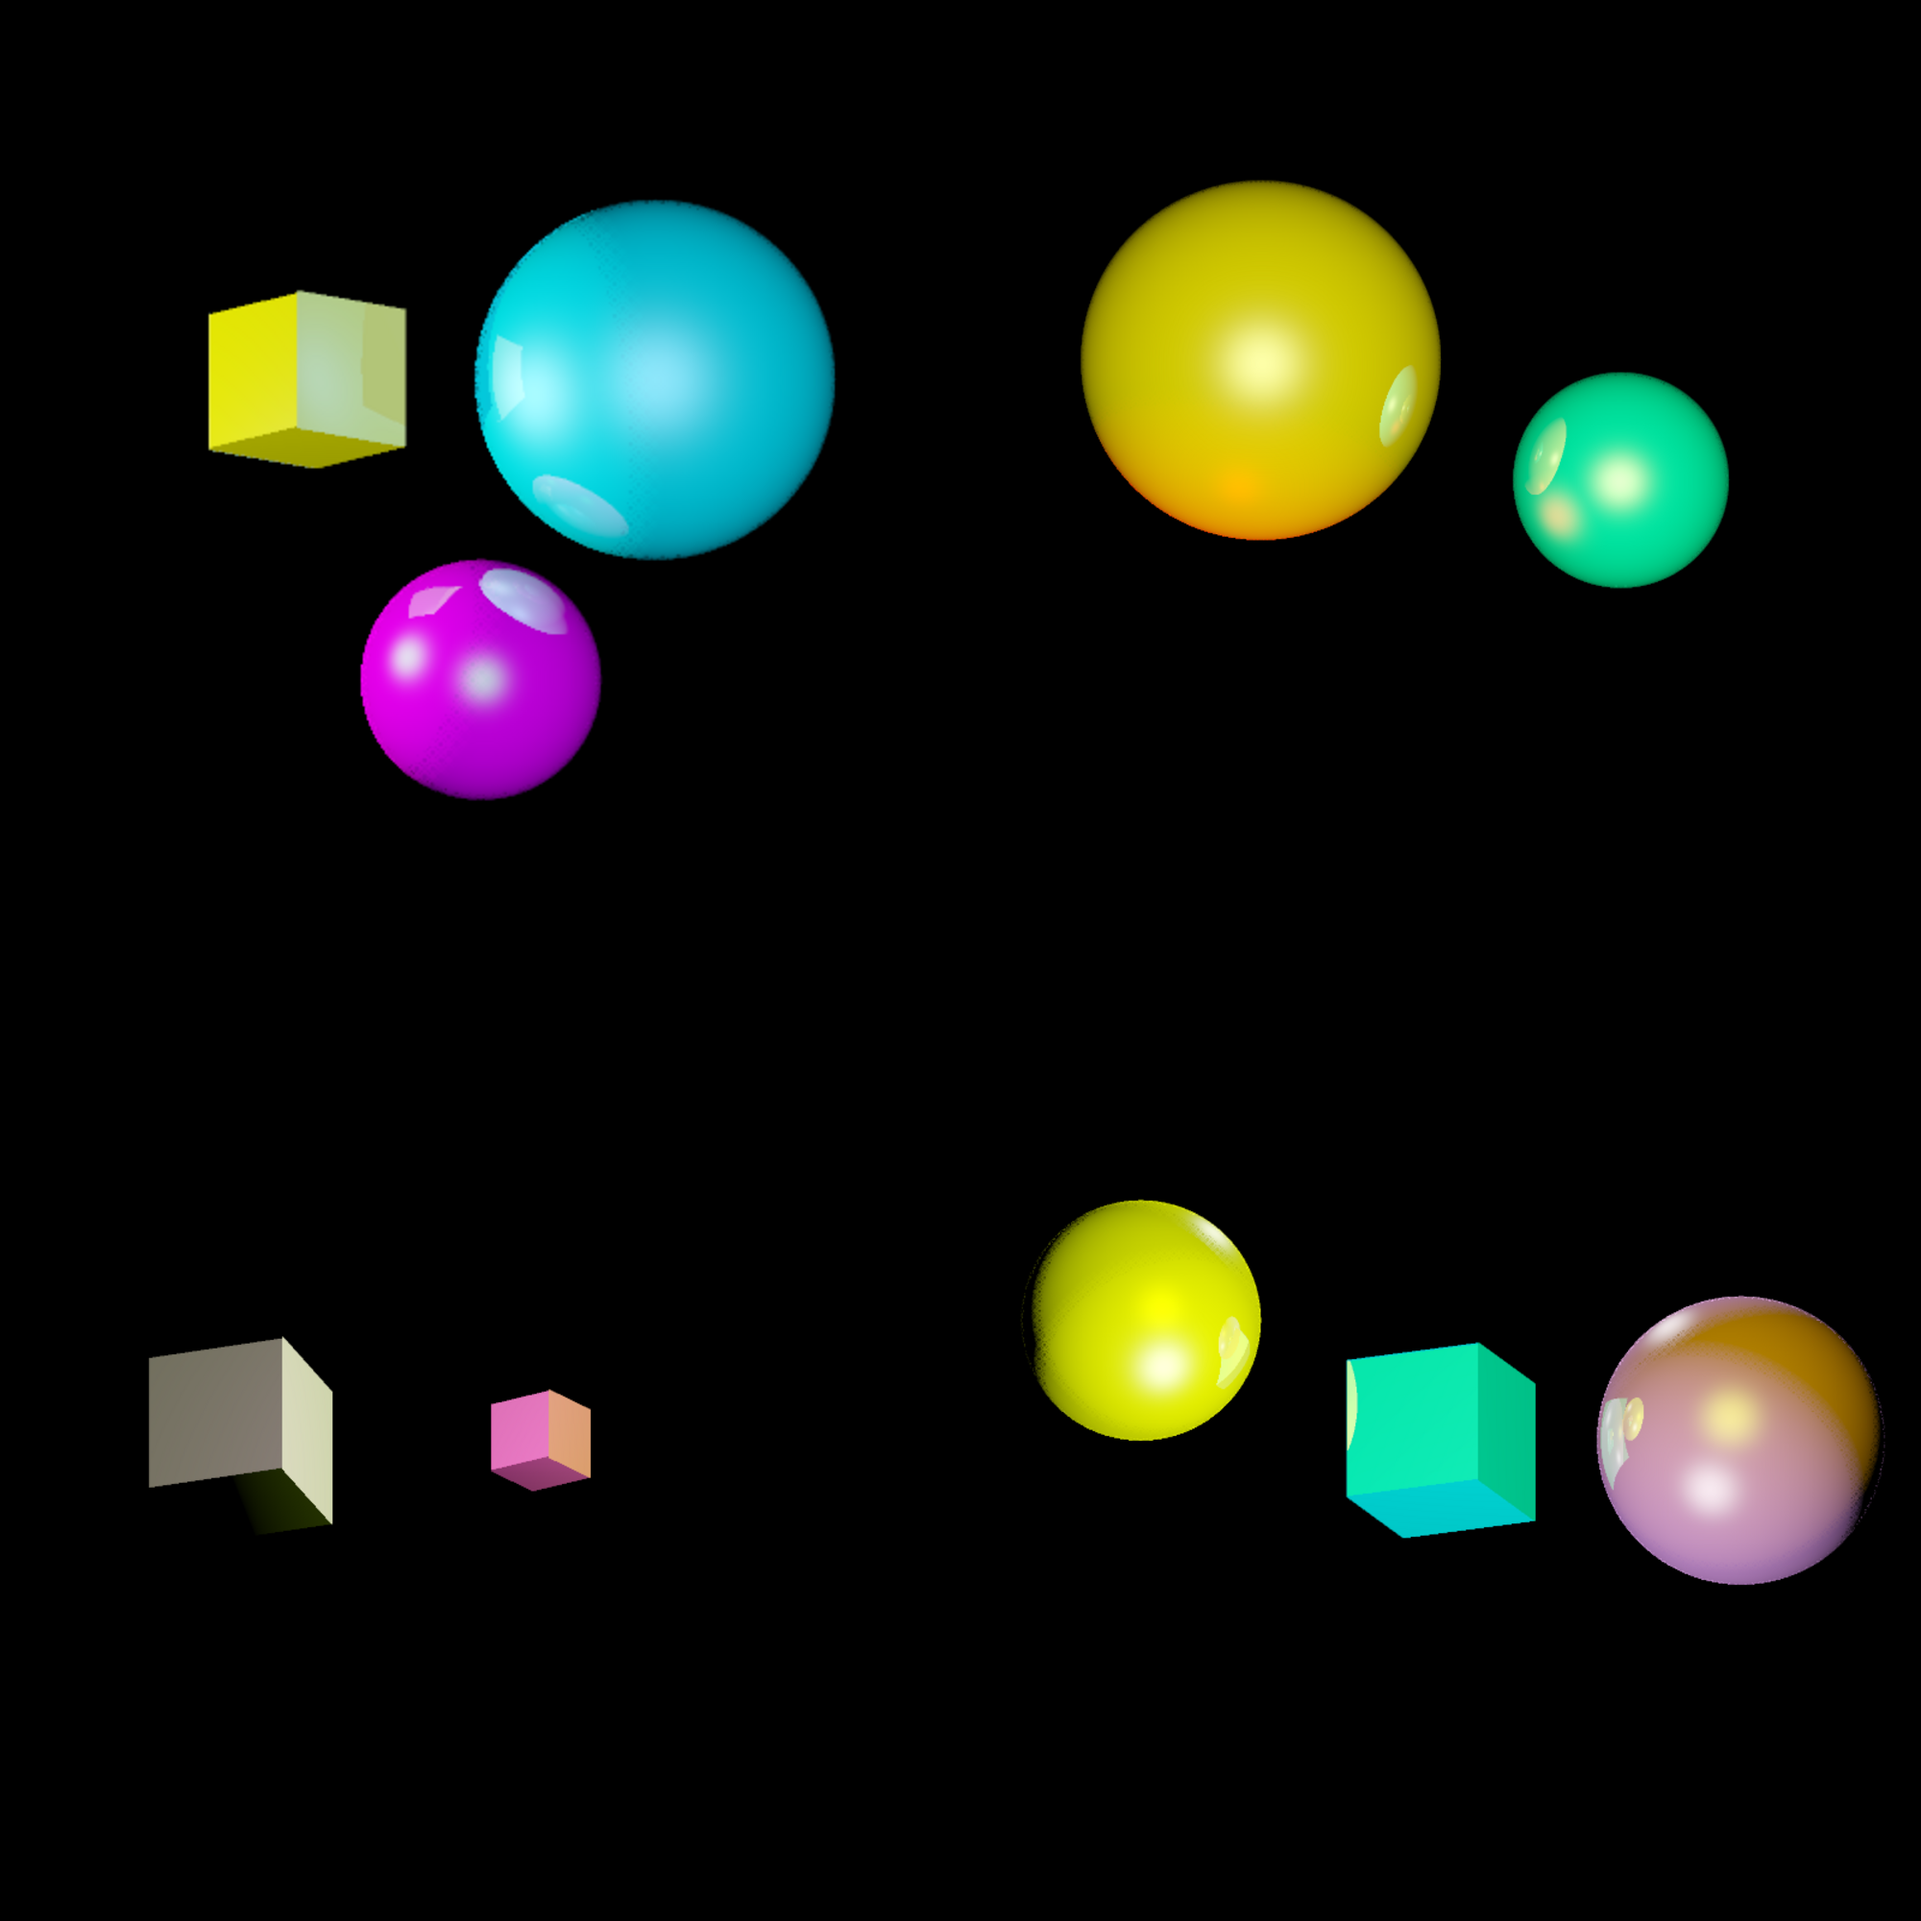
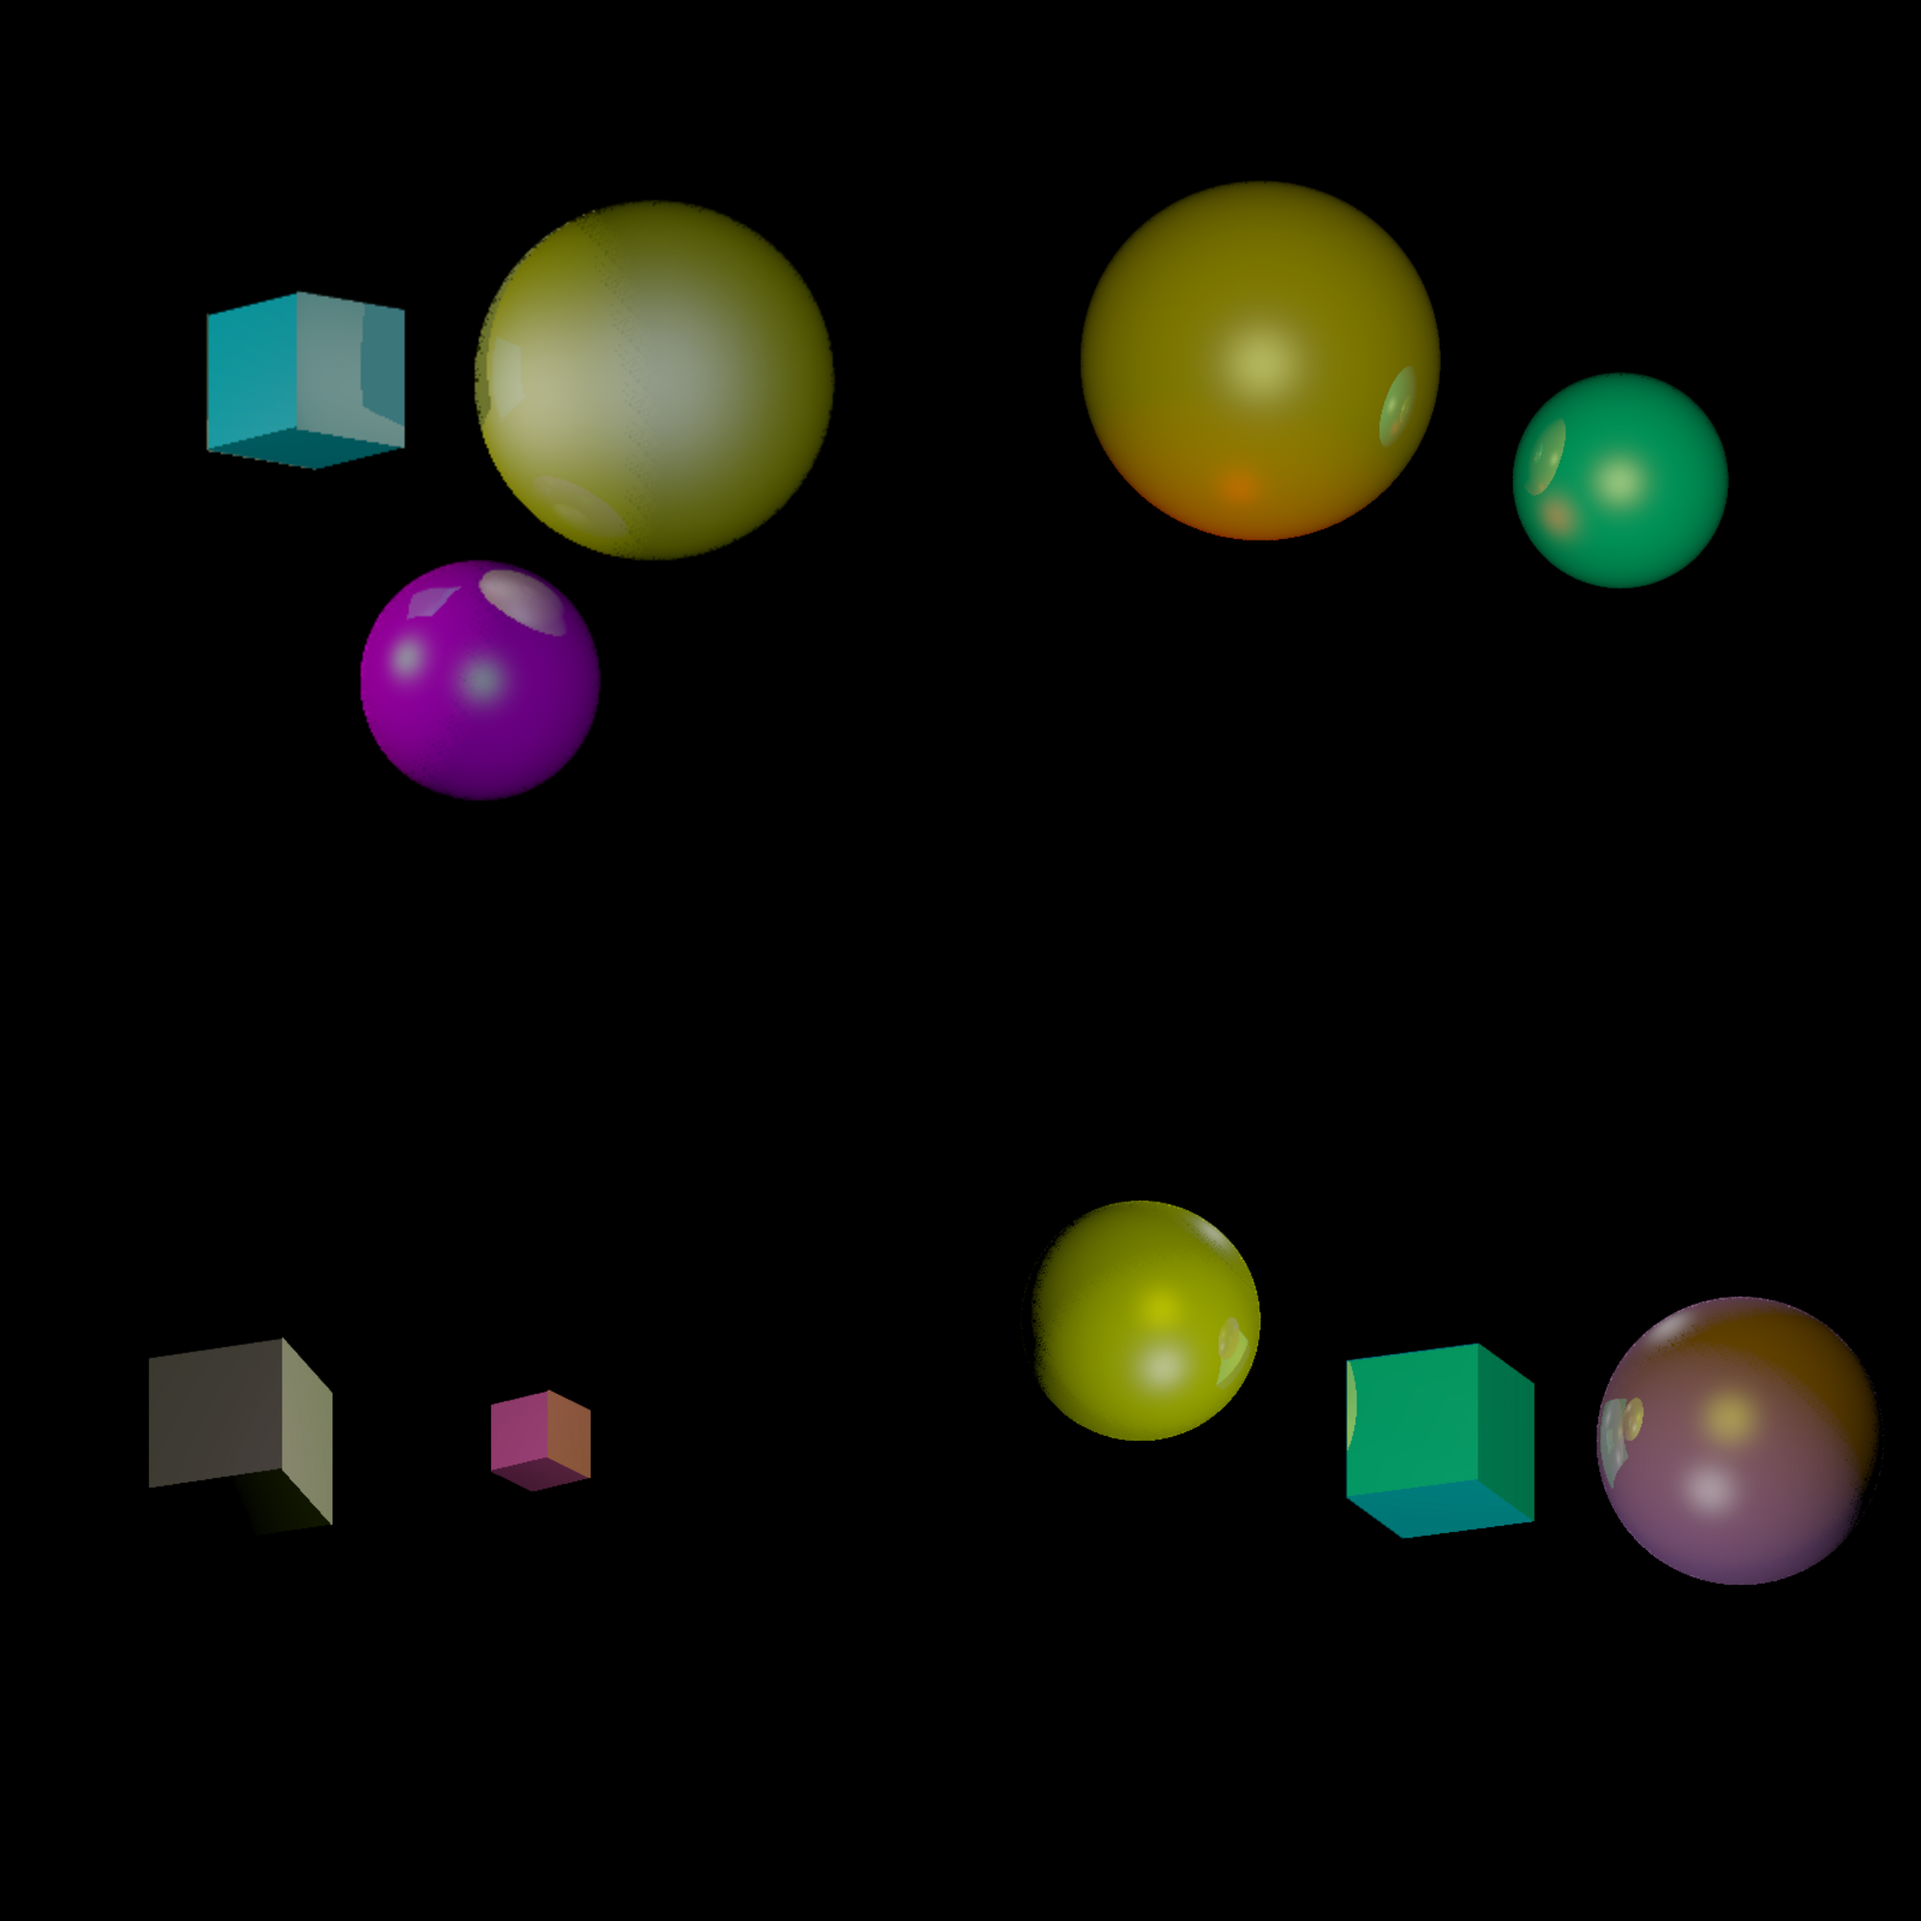
blinn phong corrigé

diff --git a/src/cpp/raytracer.cpp b/src/cpp/raytracer.cpp
@@ -50,13 +50,13 @@ bool draw(char *outputName, scene &myScene)
     for (int x = 0; x < myScene.sizex; ++x)
     {
       color output = {0.0f, 0.0f, 0.0f}; 
-      for (float fragx = float(x); fragx < x + 1.0f; fragx += 0.5f)
+      for (float fragx = float(x); fragx < x + 1.0f; fragx += 0.25f)
       {
-        for (float fragy = float(y); fragy < y + 1.0f; fragy += 0.5f)
+        for (float fragy = float(y); fragy < y + 1.0f; fragy += 0.25f)
         {
           float coef = 1.0f;
           int level = 0;
-          float sampleRatio = 0.25f; // Antialiasing x4
+          float sampleRatio = 0.125f; // Antialiasing x4
           // Lancer de rayon
           ray viewRay = {{fragx, fragy, -10000.0f}, {0.0f, 0.0f, 1.0f}}; // Le 1er rayon est "perprendiculaire" à l'écran et commence a -10 000
                                                                                // Ce premier rayon est "virtuel" et sert surtout a quel objet appartient le pixel qu'on parcourt, et la normale de l'objet en ce point
@@ -207,10 +207,10 @@ bool draw(char *outputName, scene &myScene)
             viewRay.start.pos = newStart;
 		        viewRay.dir = viewRay.dir - reflet * n;
             level++;
-          } while ((coef > 0.0f) && (level < 20));
+          } while ((coef > 0.0f) && (level < 10));
 
           // modification de l'exposition : On définit le terme exposure comme on l'entend entre 0 et -1
-          float exposure = -0.5f;
+          float exposure = -0.2f;
           output.blue = 1.0f - expf(output.blue * exposure);
           output.red = 1.0f - expf(output.red * exposure);
           output.green = 1.0f - expf(output.green * exposure);
